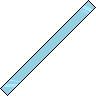
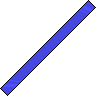
鏡の描画

Changed region(s): [[0.0, 0.0, 1.0, 1.0]]

diff --git a/Mirror/Common/Field.cpp b/Mirror/Common/Field.cpp
@@ -15,6 +15,7 @@ const int ITEM_POS_X = 125;
 const int ITEM_POS_Y = 600;
 const int BUTTON_X = WIDTH / 5;
 const int BUTTON_Y = HEIGHT / 5;
+const int MIRROR_IMAGE_IDX = 2;
 
 char field[ FIELD_COL * FIELD_ROW + 1 ] = 
 "     "
@@ -47,7 +48,9 @@ _data( data ) {
 
 	_table_image = _image->getPng( BATTLE_IMAGE, 1 ).png;
 
-	_mirror_image = _image->getPng( BATTLE_IMAGE, 2 ).png;
+	for ( int i = 0; i < PLAYER_NUM; i++ ) {
+		_mirror_image[ i ] = _image->getPng( BATTLE_IMAGE, MIRROR_IMAGE_IDX + i ).png;
+	}
 }
 
 Field::~Field( ) {
@@ -598,7 +601,8 @@ void Field::drawTmpMirror( ) const {
 		int y = pos / FIELD_COL;
 		image.cx = START_POS_X + x * SQUARE_SIZE + SQUARE_SIZE * 0.5;
 		image.cy = START_POS_Y + y * SQUARE_SIZE + SQUARE_SIZE * 0.5;
-		image.png = _mirror_image;
+		image.brt = 100;
+		image.png = _mirror_image[ _player_num ];
 		_drawer->setImage( image );
 	}
 
@@ -620,7 +624,7 @@ void Field::drawTmpMirror( ) const {
 			image.cx = START_POS_X + j * SQUARE_SIZE + SQUARE_SIZE * 0.5;
 			image.cy = START_POS_Y + i * SQUARE_SIZE + SQUARE_SIZE * 0.5;
 			image.angle = angle;
-			image.png = _mirror_image;
+			image.png = _mirror_image[ _player_num ];
 			_drawer->setImage( image );
 		}
 	}
@@ -651,7 +655,7 @@ void Field::drawMirror( ) const {
 		image.cx = START_POS_X + mirror.x * SQUARE_SIZE + SQUARE_SIZE * 0.5;
 		image.cy = START_POS_Y + mirror.y * SQUARE_SIZE + SQUARE_SIZE * 0.5;
 		image.angle = angle;
-		image.png = _mirror_image;
+		image.png = _mirror_image[ mirror.player_num ];
 		_drawer->setImage( image );
 	}
 }
